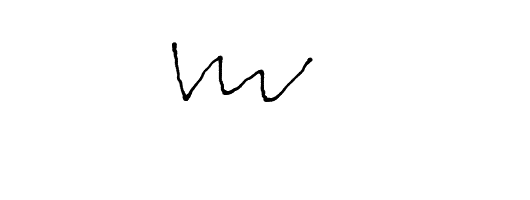
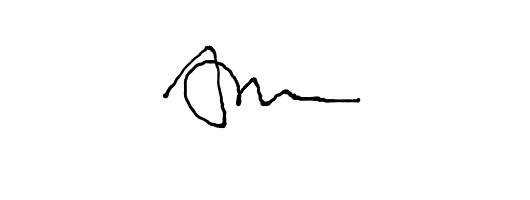
tambah folder kosong

Changed region(s): [[0.3019, 0.21, 0.6943, 0.66], [0.5434, 0.33, 0.5736, 0.42], [0.5736, 0.27, 0.6038, 0.33]]

diff --git a/application/controllers/Asesor.php b/application/controllers/Asesor.php
@@ -546,27 +546,37 @@ class Asesor extends MY_Controller
         } else if ($this->session->userdata('level') !== 'Asesor') {
             redirect('login/keluar', 'refresh');
         }
-        ##/Cek Session Login##
-        $id_izin = base64_decode($id_izin);
+
+        $id_izin_asli = base64_decode($id_izin);
         $username_login = $this->session->userdata('username');
-        $cek_tugas = $this->asesor_model->cek_tugas_asesor($id_izin, $username_login);
+        $cek_tugas = $this->asesor_model->cek_tugas_asesor($id_izin_asli, $username_login);
 
         if (!$cek_tugas) {
-            show_error('Akses Ditolak. Anda tidak ditugaskan untuk manguji peserta ini.', 403, 'Forbidden');
+            show_error('Akses Ditolak. Anda tidak ditugaskan untuk menguji peserta ini.', 403, 'Forbidden');
             return;
         }
-        $log = date("Y-m-d H:i:s");
 
-        $where = array(
-            'id_izin' => $id_izin
-        );
+        $this->db->where('id_izin', $id_izin_asli);
+        $get_files = $this->db->get('data_bukti_dokumentasi_asesmen')->result();
 
-        // Delete data based on the WHERE condition.
-        $this->db->where($where);
+        foreach ($get_files as $file_data) {
+            $nama_file = $file_data->file;
+
+            if (!empty($nama_file)) {
+                $file_path = FCPATH . 'uploads/file_asesmen/bukti_dokumentasi_asesmen/' . $nama_file;
+
+                if (file_exists($file_path) && !is_dir($file_path)) {
+                    unlink($file_path);
+                }
+            }
+        }
+
+        $this->db->where('id_izin', $id_izin_asli);
         $this->db->delete('data_bukti_dokumentasi_asesmen');
 
-        $this->session->set_flashdata('success-reset-bukti', 'Berhasil Reset Bukti Dokumentasi Asesmen');
-        redirect("asesor/asesmen/" . base64_encode($id_izin), "refresh");
+        $this->session->set_flashdata('success-reset-bukti', 'Berhasil Reset Bukti Dokumentasi Asesmen beserta Filenya');
+
+        redirect("asesor/asesmen/" . base64_encode($id_izin_asli), "refresh");
     }
 
     public function rekomendasi_hasil_asesmen($id_izin)
